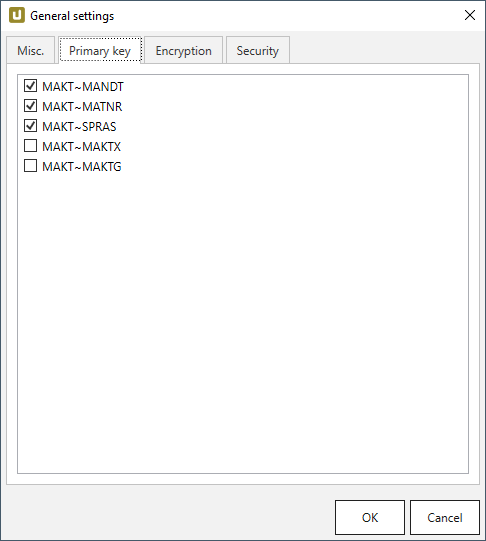
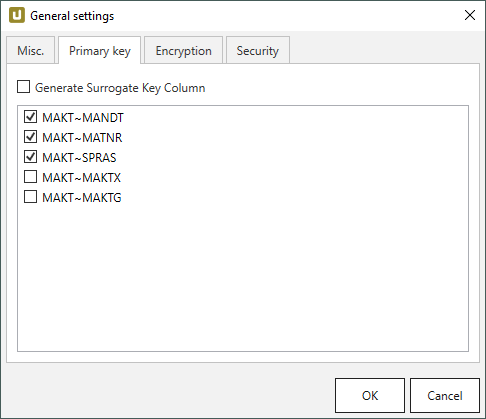
first draft

Changed region(s): [[0.0, 0.0, 0.9877, 0.4964], [0.0, 0.8377, 1.0, 1.0], [0.9568, 0.0, 0.9877, 0.0621]]

diff --git a/_includes/_content/de/xu-specific/fortgeschrittene-techniken/allgemeine-einstellungen.md b/_includes/_content/de/xu-specific/fortgeschrittene-techniken/allgemeine-einstellungen.md
@@ -48,11 +48,22 @@ Innerhalb des Designers können Sie diese Schlüsselwörter zum Filtern von Extr
 Tabellenextraktionen erben die Primärschlüssel von SAP. Andere Objekte wie z.B. SAP Query, BW Cube etc. erfordern eine manuelle Einstellung von Primärschlüsseln. 
 ![General-Settings-Primary-Key](/img/content/XU_table_Primary_key.png){:class="img-responsive"}
 
-Das abgebildete Beispiel zeigt das SAP-Objekt *KNA1* und *KNVV* mit deren Primärschlüssel. Der Primärschlüssel wurde SAP geerbt wurde und wird in den allgemeinen Einstellungen des Designers angezeigt.
-In diesem Beispiel besteht der Primärschlüssel aus *KUNNR*, *VKORG*, *VTWEG* und *SPART*. Der gezeigte Primärschlüssel wird auch in der Destination übernommen. 
+Das abgebildete Beispiel zeigt das SAP-Objekt *MAKT* mit seinem Primärschlüssel. Der Primärschlüssel ist von SAP geerbt und wird in den allgemeinen Einstellungen des Designers angezeigt.
+In dem Beispiel besteht der Primärschlüssel aus *MANDT*, *MATNR*, und *SPRAS*. Der gezeigte Primärschlüssel wird auch in der Destination übernommen. 
 
 {:.box-note}
 *Hinweis:** ein definiertes Primärschlüsselfeld in einer Tabelle ist die Voraussetzung für das Zusammenführen (Merge) von Daten. 
+
+**Generate Surrogate Key Column:**<br>
+Wenn diese Option aktive ist, wird den extrahierten Daten eine zusätzliche Spalte THEO_KEY hinzugefügt.
+Die Spalte enthält Ersatzschlüssel, die als IDs für Zeilen verwendet werden können, um Tabellen z.B. ausserhalb von Xtract Universal zusammenzuführen. 
+Die Ersatzschlüssel sind Hash-Werte des Typs *Signed Int*, z.B. #-3008591679982390000.
+Sie werden auf Basis der gewählten Primärschlüssel und des Namens der verwendeten SAP-Quelle generiert.
+
+
+{:.box-warning}
+**Warnung! Dublikates bei großen Datenmengen!**
+Bei der Extraktion von mehr als 200 Millionen Zeilen, können Dublikate vorkommen.
 
 ### Encryption
 Sie können Daten sowohl verschlüsselt als auch unverschlüsselt speichern. 

diff --git a/_includes/_content/en/xu-specific/advanced-techniques/general-settings.md b/_includes/_content/en/xu-specific/advanced-techniques/general-settings.md
@@ -44,10 +44,22 @@ Within the Designer you can use these keywords to filter  extractions.
 Table extractions inherit the primary keys from SAP. Other objects such as SAP Query, BW Cube etc. require manual setting of the primary keys.  
 ![General-Settings-Primary-Key](/img/content/XU_table_Primary_key.png){:class="img-responsive"}
 
-Depicted example demonstrates the SAP object *KNA1* and *KNVV* with their primary key inherited from SAP in the general settings of the Designer. In this example the primary key consists of *KUNNR*, *VKORG*, *VTWEG* and *SPART*. The demonstrated primary key is also taken over in the destination. 
+The example above shows the SAP object *MAKT* with its primary key inherited from SAP in the general settings of the Designer. In this example the primary key consists of *MANDT*, *MATNR* and *SPRAS*. The primary key is also taken over in the destination. 
 
 {:.box-note}
 **Note:** A defined primary key field in a table is a prerequisite for merging data. 
+
+**Generate Surrogate Key Column:**<br>
+If this option is active, an additional column THEO_KEY containing surrogate keys is added to the extracted data.
+The THEO_KEY column contains surrgate keys that can be used as row IDs when joining extracted tables outside of Xtract Universal. 
+The surrogate keys are hash values of type *Signed Int*, e.g., #-3008591679982390000.
+They are generated from the selected primary key and the name of the SAP source that is assigned to the extraction.
+
+
+{:.box-warning}
+**Warning! Dublicates in large tables!**
+When extracting more than 200 million rows, there is a chance of dublicates.
+
 
 ### Encryption
 
